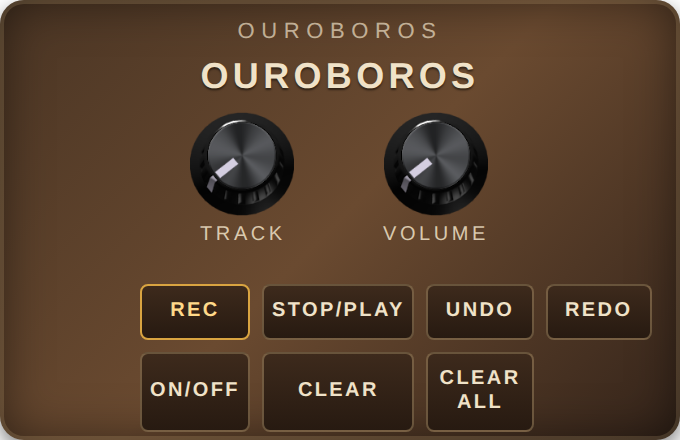
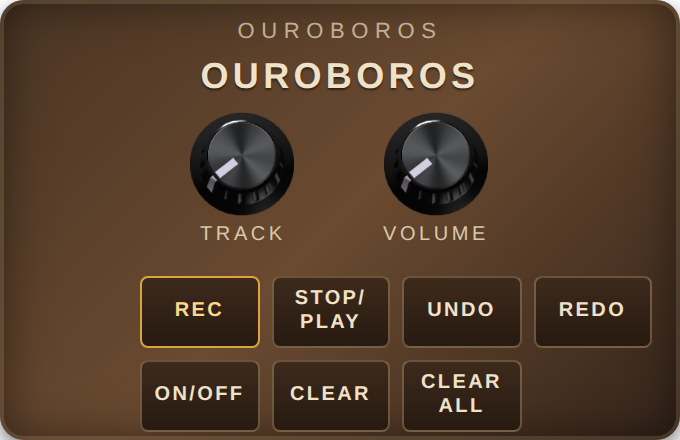
face: even key columns; STOP/PLAY wraps after the slash, keys tightened to fit

Changed region(s): [[0.1853, 0.6205, 0.9574, 1.0], [0.7412, 0.9455, 0.7721, 0.975]]

diff --git a/plugins/Ouroboros/modgui/icon-ouroboros.html b/plugins/Ouroboros/modgui/icon-ouroboros.html
@@ -35,7 +35,7 @@
     <!-- Trigger buttons: script-ouroboros.js writes 1 on press, 0 on release. -->
     <div class="ouroboros-keys">
         <button type="button" class="ouroboros-key ouroboros-key-main" data-port="rec" title="Rec / Play / Dub on the selected track">REC</button>
-        <button type="button" class="ouroboros-key" data-port="stop_play" title="Stop all tracks, or start them again from the top">STOP/PLAY</button>
+        <button type="button" class="ouroboros-key" data-port="stop_play" title="Stop all tracks, or start them again from the top">STOP/<wbr>PLAY</button>
         <button type="button" class="ouroboros-key" data-port="undo" title="Undo the newest layer of the selected track">UNDO</button>
         <button type="button" class="ouroboros-key" data-port="redo" title="Redo the layer you just undid">REDO</button>
         <button type="button" class="ouroboros-key" data-port="onoff" title="Switch the selected track on or off">ON/OFF</button>

diff --git a/plugins/Ouroboros/modgui/stylesheet-ouroboros.css b/plugins/Ouroboros/modgui/stylesheet-ouroboros.css
@@ -130,16 +130,16 @@
    Two rows of four. Plain flat keys, no custom art (v1). */
 .ouroboros-pedal .ouroboros-keys {
     position: absolute;
-    top: 142px;
+    top: 138px;
     left: 70px;
     right: 14px;
     display: grid;
-    grid-template-columns: repeat(4, 1fr);
+    grid-template-columns: repeat(4, minmax(0, 1fr));
     gap: 6px;
 }
 .ouroboros-pedal .ouroboros-key {
     margin: 0;
-    padding: 7px 4px;
+    padding: 5px 4px;
     border: 1px solid rgba(255, 220, 160, 0.3);
     border-radius: 4px;
     background: linear-gradient(180deg, #3d2a1c, #271a11);
